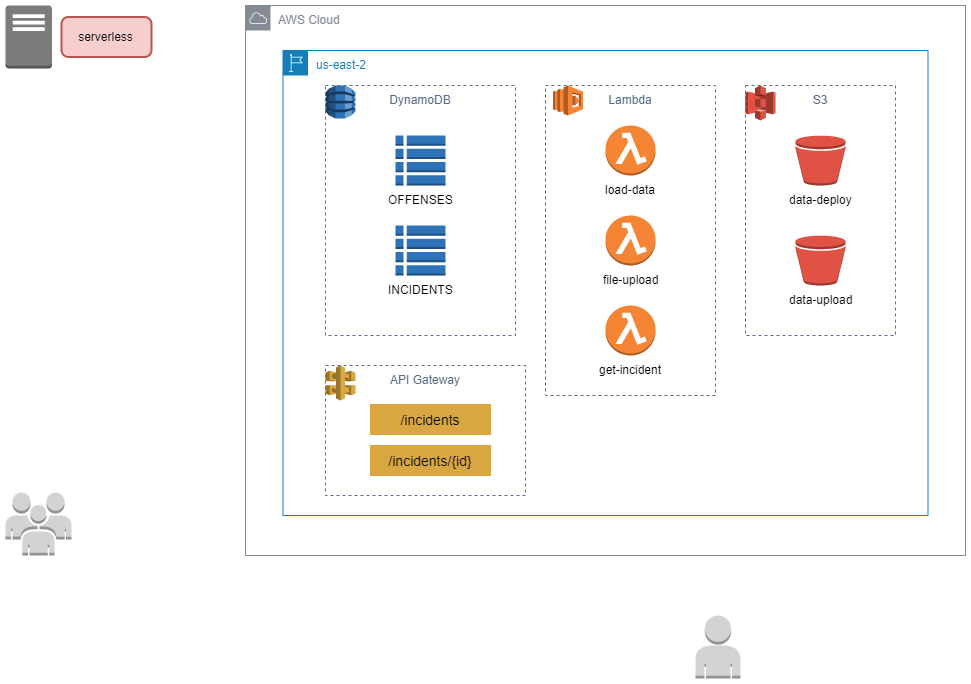
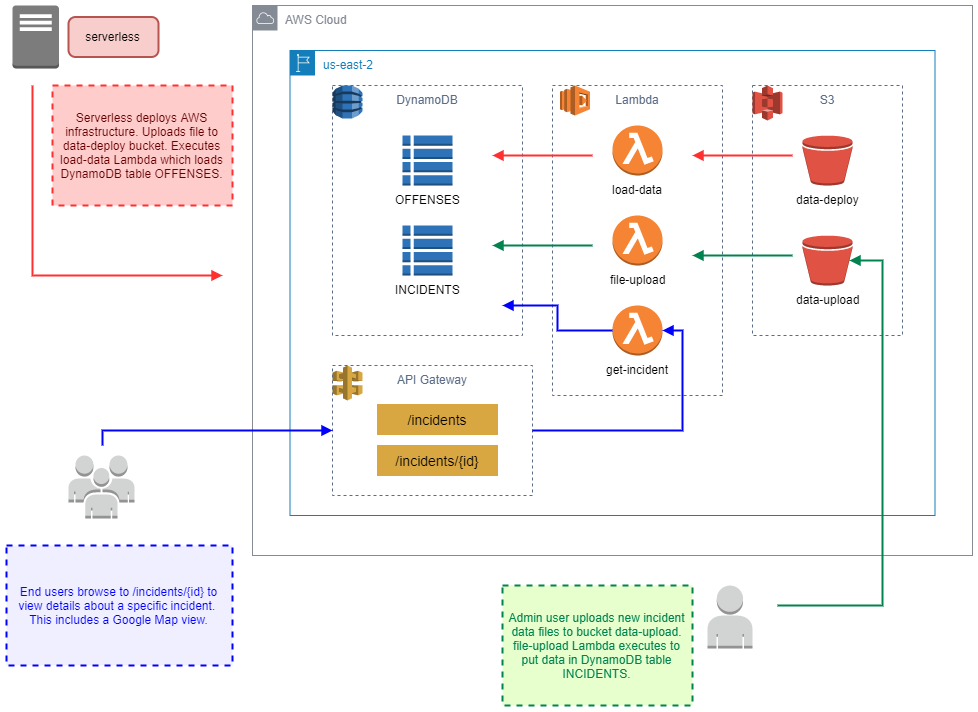
diagram complete

diff --git a/README.md b/README.md
@@ -3,13 +3,13 @@ Demo of serverless framework using crime statistics from Denver, CO
 
 # Use Case
 The purpose of this project is to demonstrate the use of the [serverless framework](https://serverless.com/) to build an AWS deployment that
-creates Lambda functions, S3 buckets, and Dynamo DB tables. As well as a serverless plugin that invokes a Lambda after the deployment, extracts data from a file in S3 and inserts that data into DynamoDB. In addition, there is an API Gateway endpoint to retrieve an HTML representation of the data and an S3 bucket that will accept new data and upload it to a Dynamo table.
+creates Lambda functions, S3 buckets, and Dynamo DB tables. As well as a serverless plugin that invokes a Lambda after the deployment, extracts data from a file in S3 and inserts that data into DynamoDB. In addition, there is an API Gateway endpoint to retrieve an HTML representation of the data and an S3 bucket that will accept new data and upload it to a DynamoDB table.
 
-In this particular project, we'll use crime reporting data from the city of Denver, CO. More information about the data used in this project can be found here -> [data/readme.md](data/readme.md).
+In this particular project, we'll use crime reporting data from the city of Denver, CO. More information about the data used in this project can be found here: [data/readme.md](data/readme.md).
 
 # Design
 ![](diagrams/vf-crime-stats.png)
-diagram omits CF/IAM plus whatever serverless does behind the scenes
+*Diagram omits IAM and CloudFormation, along with any other assets created automatically by serverless.*
 
 The serverless framework will create the following AWS service infrastructure:
 
@@ -37,8 +37,11 @@ my particular deploy is set to us-east-2
 - review all code for final cleanup and comments
 - review yml file
 
-# questions/things to do better
-breakup IAM permissions by lambda
+# Future Improvements
+This was my first attempt at a serverless project and there are likely some areas of improvement:
+
+- breakup IAM permissions by lambda
+
 learn more about referencing things within serverless.yml
 use sub-yml files
 Dynamo field/column data types, more efficient hash/keys
